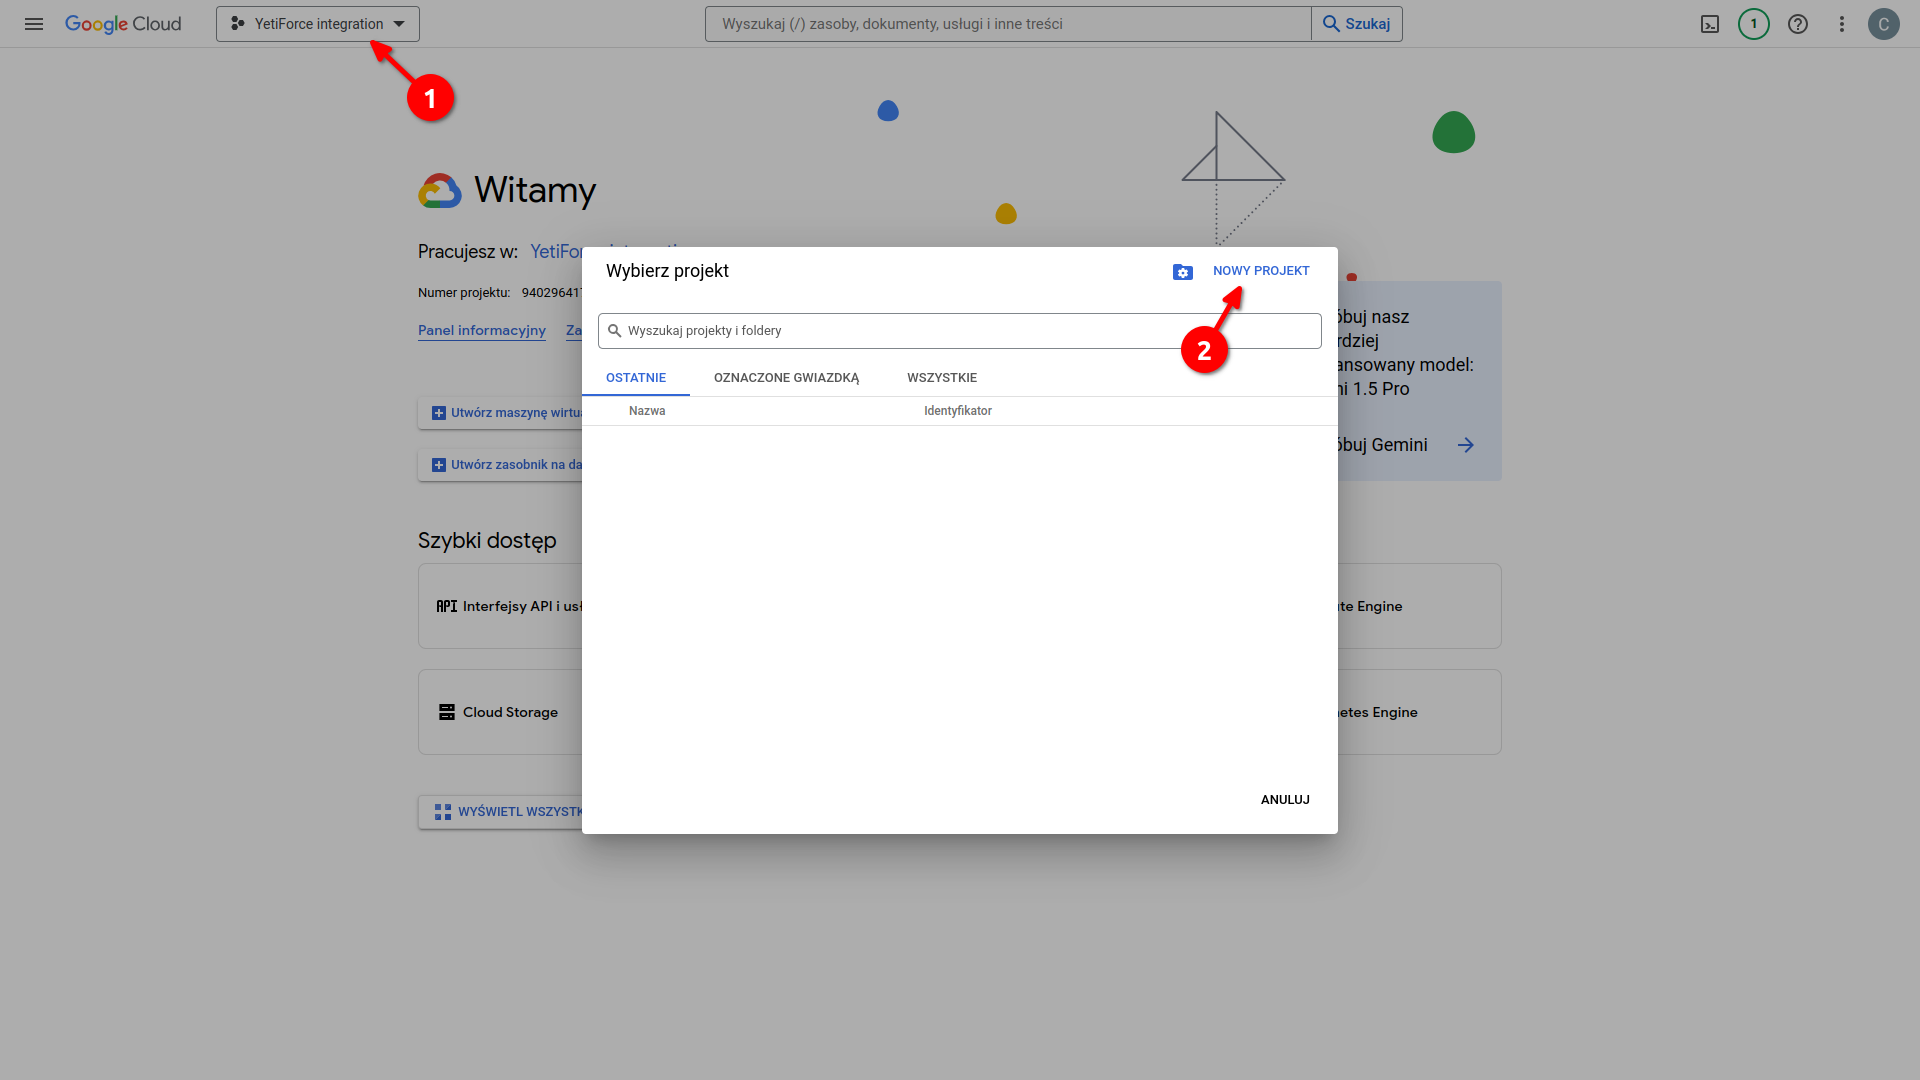
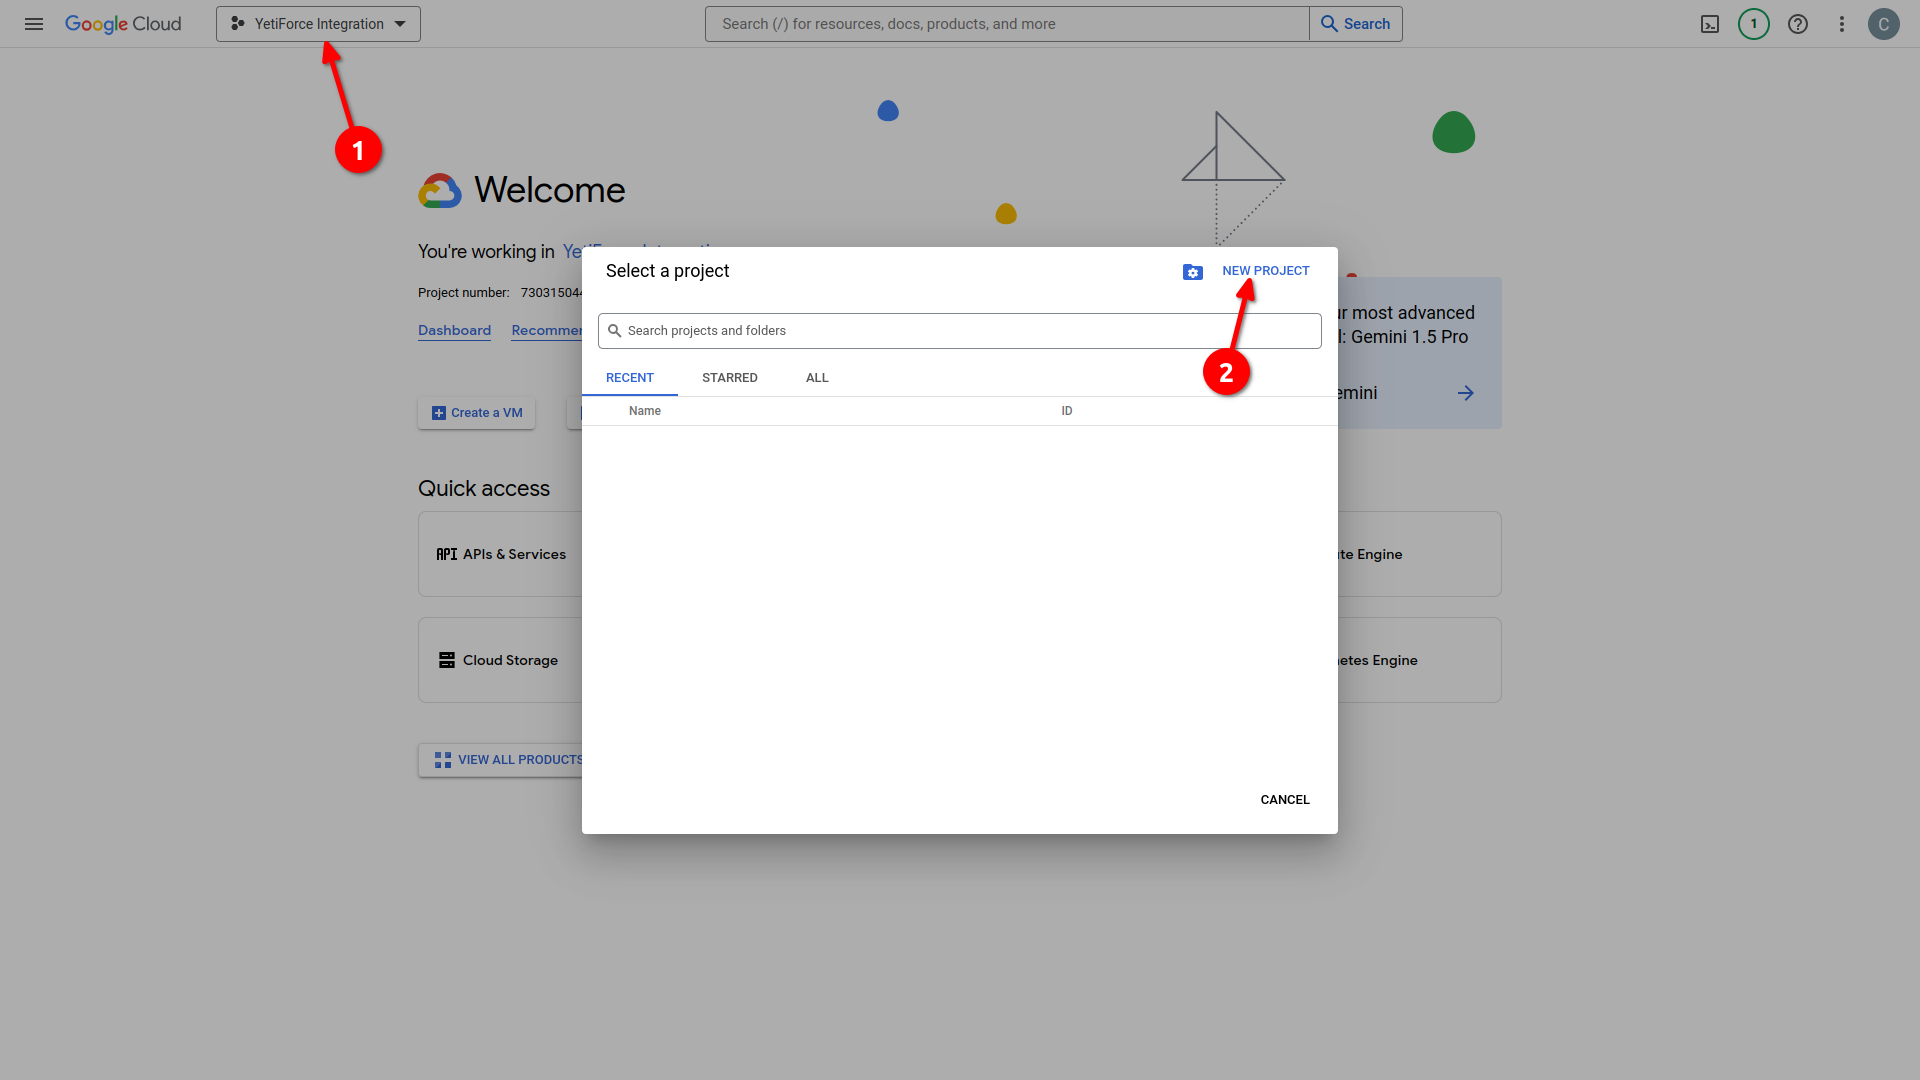
New Crowdin translations by GitHub Action

diff --git a/i18n/en/docusaurus-plugin-content-docs/current/3-administrator-guides/15-integration/02-mailbox/01-gmail.md b/i18n/en/docusaurus-plugin-content-docs/current/3-administrator-guides/15-integration/02-mailbox/01-gmail.md
@@ -19,91 +19,91 @@ It focuses on showing how to generate a Client ID and Client Secret in Gmail. Th
 
 ### Step 1: Create a project in the Google Cloud Platform Console
 
-- Przejdź do Konsoli [Google Cloud Platform](https://console.cloud.google.com/).
-- Zaloguj się przy użyciu swojego konta Gmail.
-- Wybierz listę rozwijaną z dostępnymi projektami.
-- Wybierz <kbd>Utwórz projekt</kbd>.
+- Go to the [Google Cloud Platform](https://console.cloud.google.com/) Console.
+- Log in using your Gmail account.
+- Select the dropdown list of available projects.
+- Select <kbd>Create project</kbd>.
 
 ![gmail-1](gmail-1.jpg)
 
-- Wprowadź nazwę aplikacji.
+- Enter the application name.
 
 ![gmail-2](gmail-2.jpg)
 
-### Krok 2: Utwórz ekran zgody OAuth
+### Step 2: Create OAuth confirmation screen
 
-- Z górnej listy wybierz utworzony projekt (strzałka nr 1 na zrzucie).
-- Rozwiń lewe menu i wybierz `Interfejsy API i usługi ➔ Ekran zgody OAuth`.
+- From the list at the top of the screen, select the project you created (arrow #1 in the screenshot).
+- Expand the menu on the left and select "Enabled APIs & services ➔ OAuth consent screen".
 
 ![gmail-3](gmail-3.jpg)
 
-- Następnie należy określić typ integracji:
-  - **Internal** - Integracja przeznaczona do użytku produkcyjnego.
-  - **External** - Integracja tworzona w celach testowych.
+- Define integration type:
+  - **Internal** - for production use.
+  - **External** - for testing purposes.
 
 ![gmail-4](gmail-4.jpg)
 
-- Wypełnij formularz, podając dowolną nazwę aplikacji oraz adres mailowy Gmail, który chcesz zintegrować z YetiForce.
-- Na dole formularza podaj adres mailowy dewelopera i wybierz przycisk <kbd>ZAPISZ I KONTYNUUJ</kbd>.
+- Fill out the form with any application name and the Gmail email address you want to integrate with YetiForce.
+- At the bottom of the form, provide the developer's email address and click <kbd>SAVE AND CONTINUE</kbd>.
 
 ![gmail-5](gmail-5.jpg)
 
-- Przejdź przez sekcję `Zakresy` wybierając przycisk na dole <kbd>ZAPISZ I KONTYNUUJ</kbd>.
+- Scroll down the `Scopes` section and click the <kbd>SAVE AND CONTINUE</kbd> button at the bottom.
 
 ![gmail-6](gmail-6.jpg)
 
-- W przypadku integracji testowej w sekcji `Test users` dodaj adres synchronizowanej poczty i przejdź dalej.
+- In case of test integration, in the `Test users` section, add the address of the synchronized mail and proceed.
 
 ![gmail-7](gmail-7.jpg)
 
-### Krok 3: Utwórz dane logowania
+### Step 3: Create credentials
 
-- Rozwiń lewe menu i wybierz `Interfejsy API i usługi ➔ Dane logowania`.
-- Wybierz przycisk <kbd>+ UTWÓRZ DANE LOGOWANIA</kbd>.
+- Expand the menu on the left and select "Enabled APIs & services ➔ Credentials".
+- Click the <kbd>+ CREATE CREDENTIALS</kbd> button.
 
 ![gmail-8](gmail-8.jpg)
 
-- Z menu, które się pojawiło wybierz `Identyfikator klienta OAuth`.
+- Select `OAuth Client ID` from the menu.
 
 ![gmail-9](gmail-9.jpg)
 
-- W formularzu, który się pojawił w polu `Typ aplikacji` wybieramy `Aplikacja Internetowa` i wpisujemy dowolną nazwę aplikacji.
+- In the form, select `Web Application` from the `Application type` list, and enter any application name.
 
 ![gmail-10](gmail-10.jpg)
 
-Na formularzu trzeba również wpisać `Autoryzowane identyfikatory URI przekierowania` (strzałka nr 3 na zrzucie). Identyfikator ten znajdziemy na platformie YetiForce. Poniżej znajduje się opis, skąd możemy pobrać jego wartość.
+The form also requires you to enter `Authorized Redirect URIs` (arrow #3 in the screenshot). This identifier can be found on the YetiForce platform. Below is a description of where to find it.
 
-### Krok 4: Pobieranie identyfikatora URI przekierowania
+### Step 4: Find the Redirect URI value
 
-Powróć do procesu tworzenia serwera pocztowego, który został opisany w [tym artykule](/administrator-guides/integration/mailbox/#dodanie-serwera-pocztowego). Upewnij się, że w polu `Przekieruj URI`, znajduje się nazwa aplikacji, którą utworzyłeś do integracji z pocztą. Następnie skopiuj wartość URI przekierowania naciskając przycisk <kbd><i class="fa-solid fa-copy"></i></kbd>.
+Return to the mail server creation process described in [this article](/administrator-guides/integration/mailbox/#add-mail-server). Make sure that the `Redirect URI` field contains the name of the application you created for mail integration. Then copy the redirect URI value by pressing the <kbd><i class="fa-solid fa-copy"></i></kbd> button.
 
 ![gmail-11](gmail-11.jpg)
 
-### Krok 5: Kontynuacja tworzenia danych logowania
+### Step 5: Continue creating credentials
 
-Skopiowaną wartość `URI Przekierowania` wklej w formularzu Google do pola `Autoryzowane identyfikatory URI przekierowania`. Następnie wybierz przycisk <kbd>Utwórz</kbd>.
+Paste the copied `Redirect URI` value into the `Authorized Redirect URIs` field in the Google form. Then select the <kbd>Create</kbd> button.
 
 ![gmail-12](gmail-12.jpg)
 
-Pojawi nam się okno modalne zawierające interesujące nas dane: `Client ID` oraz `Client Secret`. Wartości te należy skopiować i wykorzystać w formularzu tworzenia serwera pocztowego w YetiForce.
+A modal popup window with the `Client ID` and `Client Secret` will appear. These values should be copied and used in the mail server creation form in YetiForce.
 
 ![gmail-13](gmail-13.jpg)
 
-### Krok 6: Dodawanie serwera pocztowego w YetiForce
+### Step 6: Add mail sever in YetiForce
 
-Po uzyskaniu `Client ID` oraz `Client Secret` wypełniamy resztę formularza, który zaczęliśmy tworzyć w [tym artykule](/administrator-guides/integration/mailbox/#dodanie-serwera-pocztowego).
+Once you have the `Client ID` and `Client Secret`, fill out the rest of the form that you started creating in [this article](/administrator-guides/integration/mailbox/#add-mail-server).
 
 #### Form fields
 
-- **Temat**: Unikalna nazwa, która posłuży do jego identyfikacji.
-- **Metoda autoryzacji**: `OAuth2`.
-- **Dostawca uwierzytelniania OAuth**: wybieramy `Sync with Google`.
-- **ID Klienta**: wartość skopiowana z Google - `Identyfikator klienta`
-- **Klucz tajny klienta**: wartość skopiowana z Google - `Tajny klucz klienta`
-- **Przekieruj URI**: wybieramy aplikację utworzoną do integracji z usługą pocztową.
+- **Subject** - A unique name that will be used for identification.
+- **Authorization method**: `OAuth2`.
+- **OAuth Provider**: select `Sync with Google`.
+- **Client ID** - copy from Google - `Client ID`.
+- **Client secret** - copy from Google - `Client secret`.
+- **Redirect URI** - we select an application created for integration with the mail service.
 
-Pozostało uzupełnienie konfiguracji IMAP i SMTP zgodnie z zaleceniami dostawcy poczty e-mail.
+Now complete the IMAP and SMTP configuration according to your email provider's recommendations.
 
 ![gmail-14](gmail-14.jpg)
 
-Po dodaniu konta pocztowego musimy powiązać go z kontami użytkowników. Jak to zrobić, zostało opisane w [tym artykule](/administrator-guides/integration/mailbox#krok-3-powiązanie-serwera-pocztowego-z-kontami-użytkowników).
+After adding the mail account, you need to link it with user accounts. This process is described in [this article](/administrator-guides/integration/mailbox#step-3-link-mail-server-with-user-accounts).

diff --git a/i18n/en/docusaurus-plugin-content-docs/current/3-administrator-guides/15-integration/02-mailbox/02-outlook.md b/i18n/en/docusaurus-plugin-content-docs/current/3-administrator-guides/15-integration/02-mailbox/02-outlook.md
@@ -1,24 +1,25 @@
 ---
-title: Konfiguracja Outlook
-description: Wygenerowanie Client ID i Client Secret w Outlook
+title: Outlook configuration
+description: Generate Client ID & Client Secret in Outlook
 keywords:
-  - Poczta
-  - Skrzynka prywatna
-  - Skrzynka Korporacyjna
+  - Email
+  - Private mailbox
+  - Corporate mailbox
   - Gmail
   - Outlook
 tags:
-  - Poczta
-  - Skrzynka prywatna
-  - Skrzynka Korporacyjna
+  - Email
+  - Private mailbox
+  - Corporate mailbox
   - Gmail
   - Outlook
 preview: mailbox-integration-1.jpg
 ---
 
-Ten artykuł stanowi uzupełnienie instrukcji [integracji YetiForce z klientami poczty](/administrator-guides/integration/mailbox). Skupia się on na tym by pokazać jak wygenerować Client ID i Client Secret w portalu Azure AD. Te dane są niezbędne do uwierzytelnienia połączenia między YetiForce a Twoim kontem Outlook.
+This article is a supplement to the [YetiForce integration with mail clients](/administrator-guides/integration/mailbox) guide.
+It focuses on showing how to generate a Client ID and Client Secret in Azure AD. These details are necessary to authenticate the connection between YetiForce and your Outlook account.
 
-### Krok 1: Utwórz projekt w Portalu Microsoft Azure
+### Step 1: Create a project in the Microsoft Azure Portal
 
 - Przejdź do [Portal Azure](https://portal.azure.com/).
 - Zaloguj się przy użyciu swojego konta Microsoft.

diff --git a/i18n/en/docusaurus-plugin-content-docs/current/1-introduction/2-download.md b/i18n/en/docusaurus-plugin-content-docs/current/1-introduction/2-download.md
@@ -13,7 +13,7 @@ Here you can find links to download the latest stable version of the system.
 
 ## Where can I find YetiForce?
 
-- ### [Download the stable version from the YetiForce server](https://api.yetiforce.eu/download/crm/doc/7.0.1-complete)
+- ### [Pobierz stabilną wersję z serwera YetiForce](https://api.yetiforce.eu/download/crm/doc/7.0.3-complete)
 - ### [Softaculous](https://www.softaculous.com/apps/erp/YetiForce)
 
 ## YetiForce requirements

diff --git a/i18n/en/docusaurus-plugin-content-docs/current/3-administrator-guides/15-integration/02-mailbox/README.md b/i18n/en/docusaurus-plugin-content-docs/current/3-administrator-guides/15-integration/02-mailbox/README.md
@@ -2,15 +2,15 @@
 title: Integracja Poczty
 description: Integracja poczty z Gmail/outlook
 keywords:
-  - Poczta
-  - Skrzynka prywatna
-  - Skrzynka Korporacyjna
+  - Email
+  - Private mailbox
+  - Corporate mailbox
   - Gmail
   - Outlook
 tags:
-  - Poczta
-  - Skrzynka prywatna
-  - Skrzynka Korporacyjna
+  - Email
+  - Private mailbox
+  - Corporate mailbox
   - Gmail
   - Outlook
 preview: mailbox-integration-1.jpg

diff --git a/i18n/en/docusaurus-plugin-content-docs/current/1-introduction/3-installation-manual.md b/i18n/en/docusaurus-plugin-content-docs/current/1-introduction/3-installation-manual.md
@@ -44,7 +44,7 @@ You can also use the bash console
 
 ```bash
 cd /home/yfprod/html/
-wget -O YetiForceCRM.zip https://api.yetiforce.eu/download/crm/www/7.0.0-complete
+wget -O YetiForceCRM.zip https://api.yetiforce.eu/download/crm/doc/7.0.3-complete
 unzip YetiForceCRM.zip
 chown -R yfprod:yfprod /home/yfprod/html/
 ```
